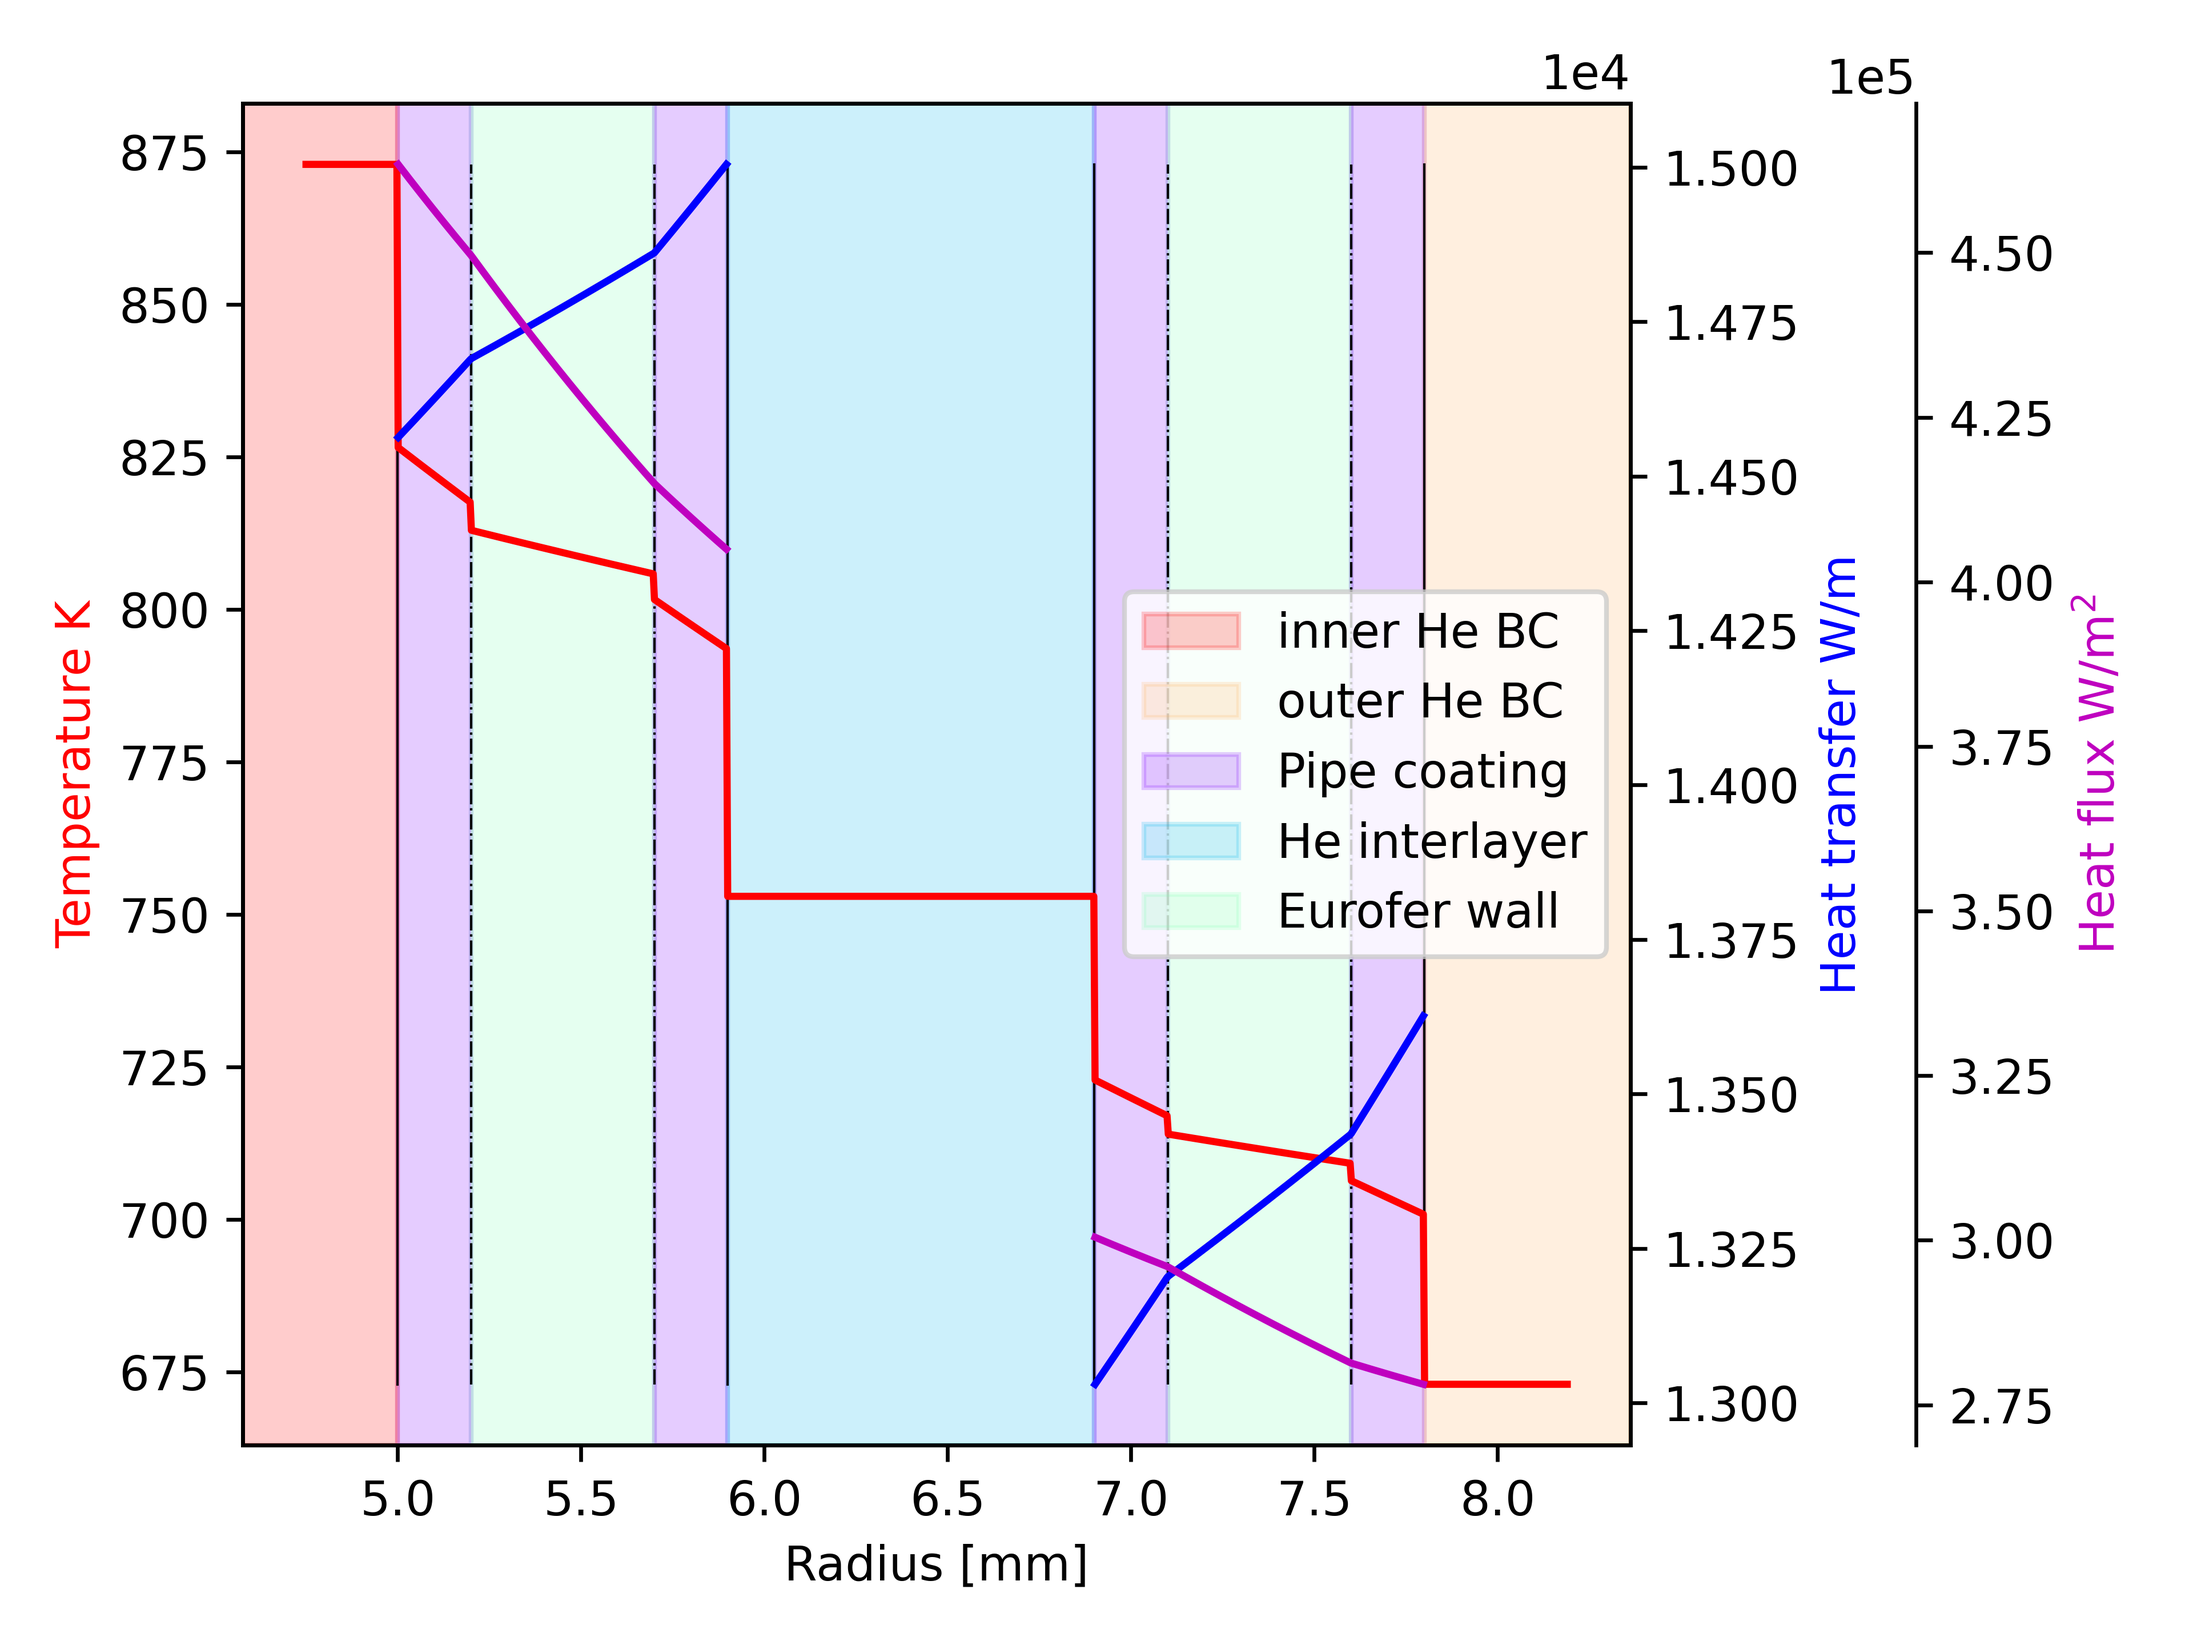
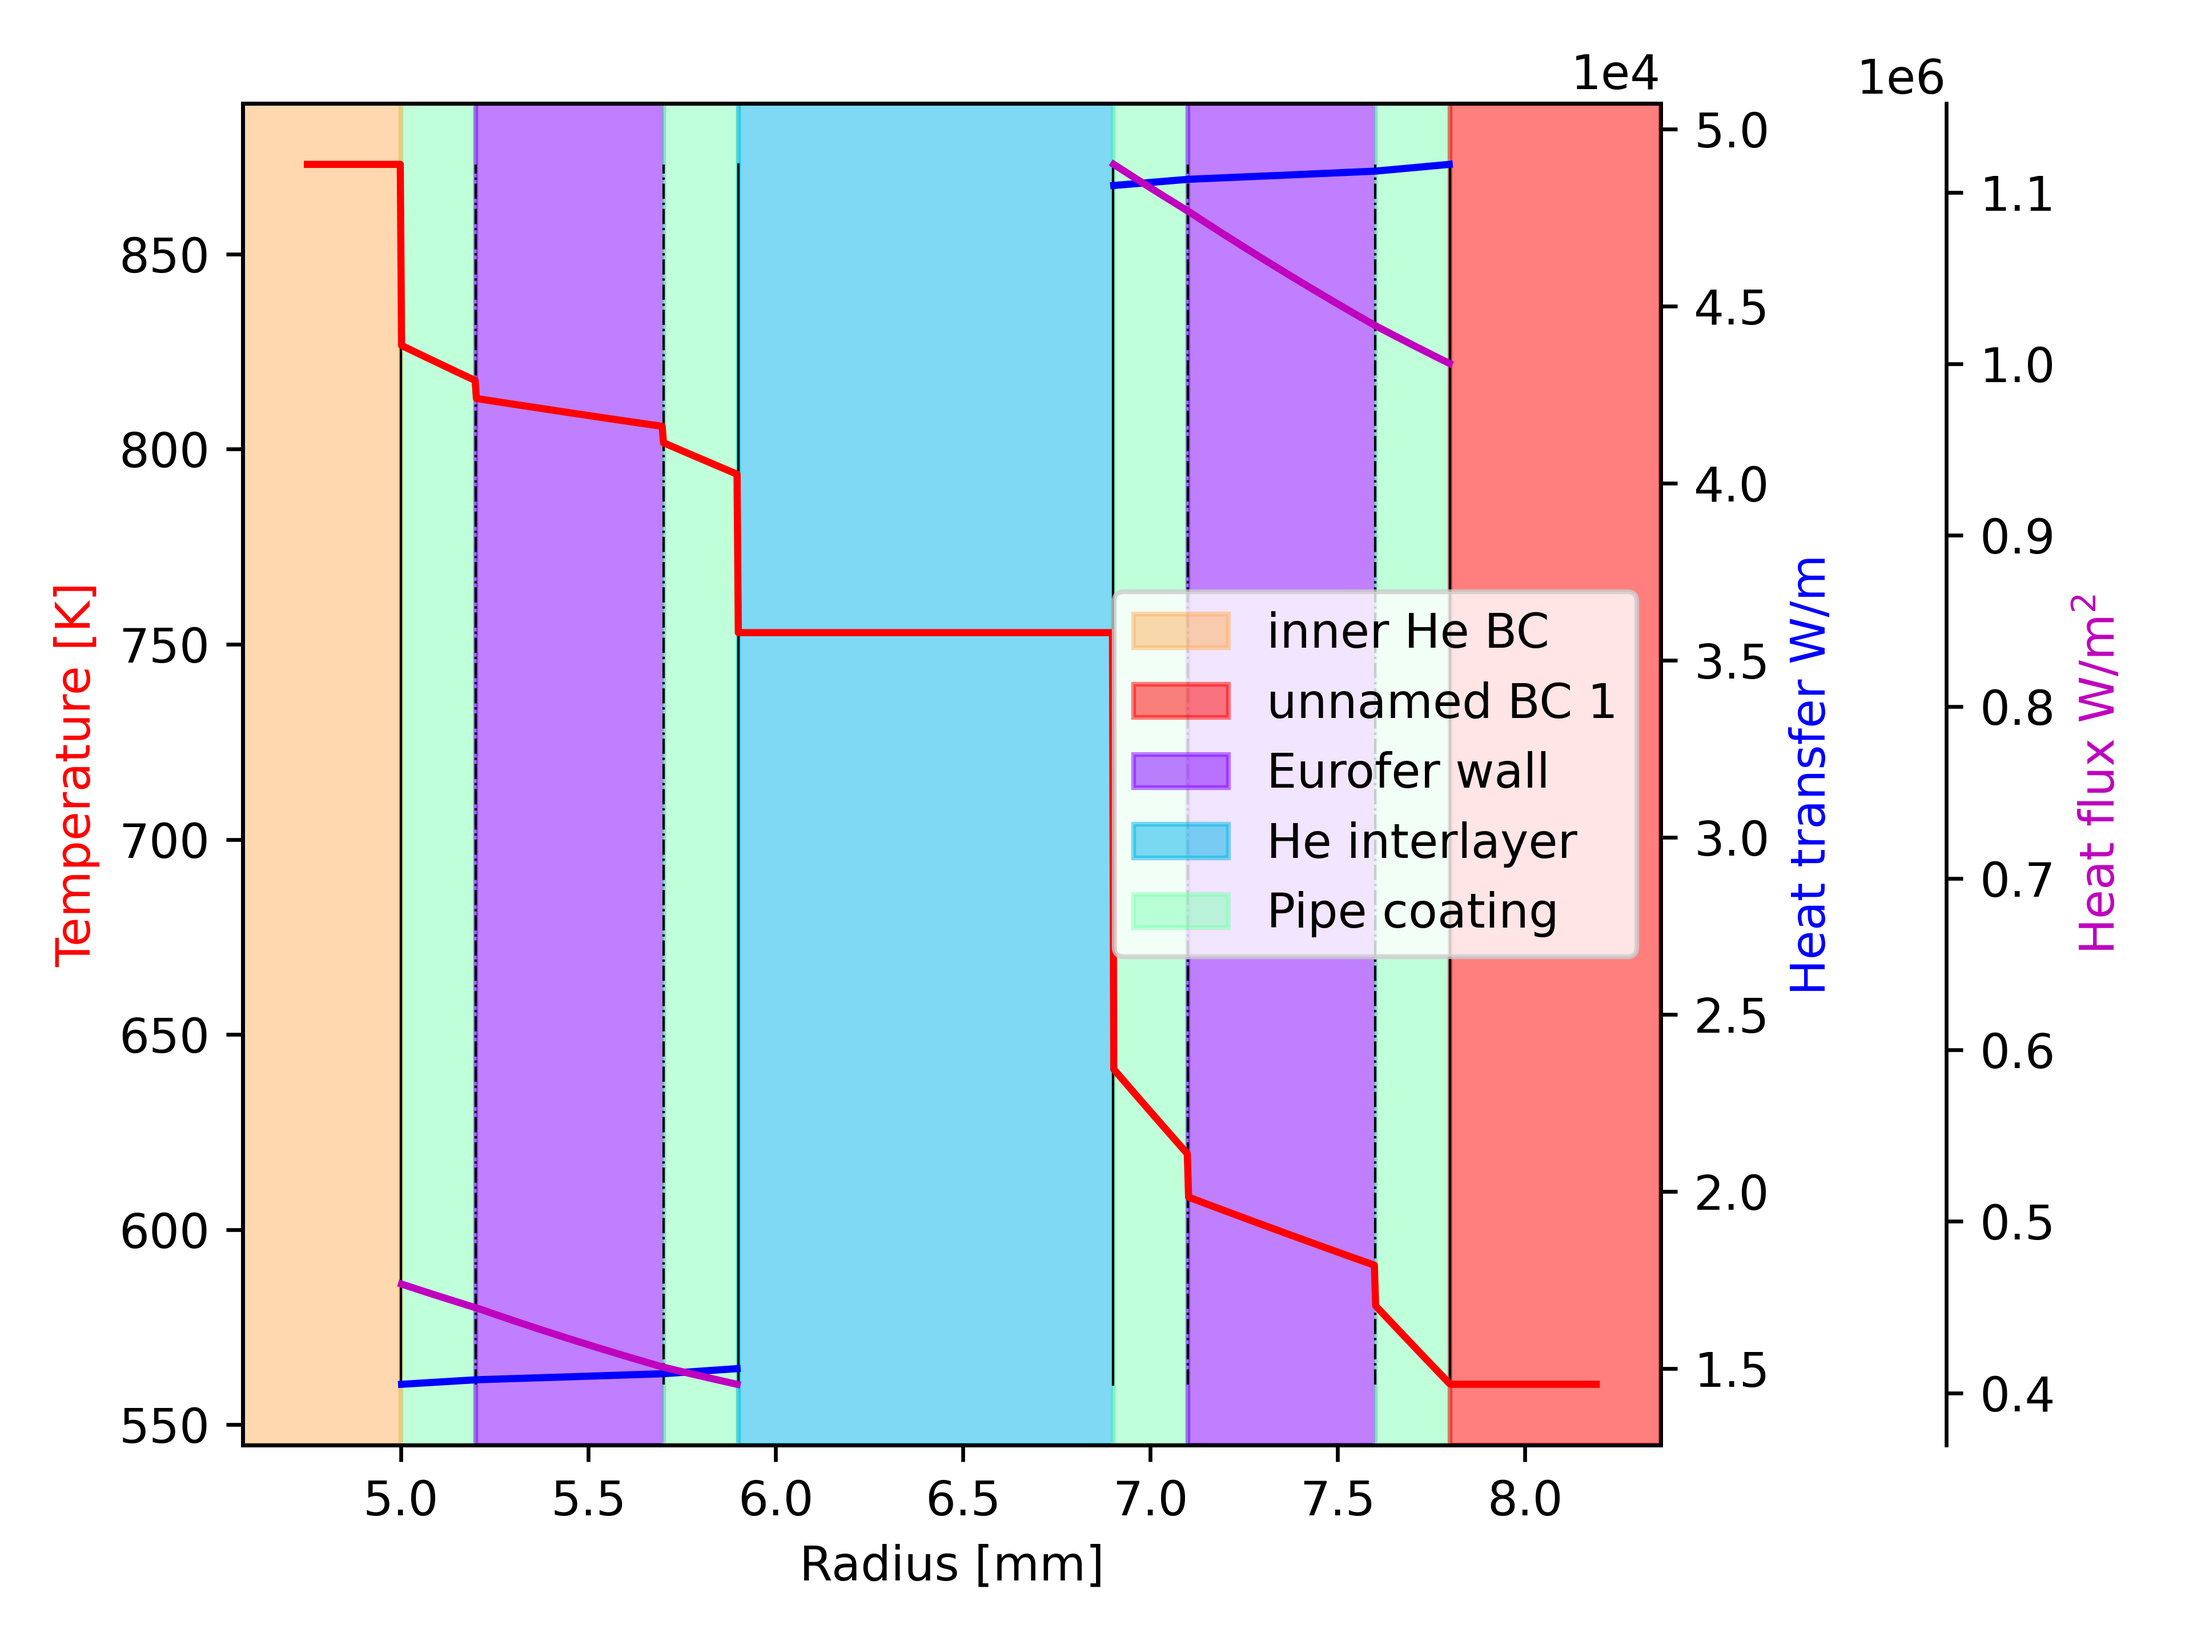
can set the alpha on plot patches

diff --git a/more_examples.py b/more_examples.py
@@ -12,19 +12,19 @@ BC3 = TP1D.boundary_condition('fluid', 'outer', T_inf=400+273, h=1e4,label='oute
 BC4 = TP1D.boundary_condition('fluid', 'inner', T_inf=400+273, h=1e4, label='Test')
 BCHFout = TP1D.boundary_condition('heat flux', 'outer',q=1e6)
 BCHFin = TP1D.boundary_condition('heat flux', 'inner',q=-1e6)
-#Example_A = TP1D.Radial1D(1,[c,a,c,b,c,a,c],BC2,BCHFout)
-#Example_B = TP1D.Radial1D(5e-3,[c,a,c],BC3,BCHFout)
-Example_C=TP1D.Radial1D(1,[c,a,c],BC3,BC4)
+Example_A = TP1D.Radial1D(5e-3,[c,a,c,b,c,a,c],BC2,BCHFout)
+Example_B = TP1D.Radial1D(5e-3,[c,a,c],BC3,BCHFout)
+Example_C=TP1D.Radial1D(5e-3,[c,a,c],BC3,BC4)
 c4_1=TP1D.solid_layer(0.5e-3,300,0,1e-5)
 c4_2=TP1D.solid_layer(3.5e-3,30,1e8,0)
 Comp_c4 = TP1D.Radial1D(1e3,[c4_1,c4_2,b,c4_1,c4_2],BC2,BC1)
 linear = TP1D.Linear1D([c,a,c],BC3,BC4, width = 2 * np.pi)
-#fig_A = Example_A.plot_T(1000,1,1,1,0,1)
-#fig_B = Example_B.plot_T(100,1,0,0,1,1)
-fig_C = Example_C.plot_T(10000,1,1,1,0,1)
+fig_A = Example_A.plot_T(1000,1,1,1,0,1)
+fig_B = Example_B.plot_T(1000,1,0,0,1,1)
+fig_C = Example_C.plot_T(1000,1,1,1,0,1)
 fig_linear = linear.plot_T(1000,1,1,1,0,1)
 C_results = Example_C.results()
 linear_results = linear.results()
-#fig_A.savefig('results\example_A.png', dpi=600 )
+fig_A.savefig('results\example_A.png', dpi=600 )
 #A_results.to_json('results\example_A.json')
 #A_results.to_csv('results\example_A.csv')

diff --git a/ThermPy1D.py b/ThermPy1D.py
@@ -374,7 +374,8 @@ class Thermal1D:
                plotq=1,
                show_bounds=1,
                Q_labels=0,
-               patches=0, 
+               patches=0,
+               set_alpha=0.5
                ):
         """
         Plots the temperature profile through the wall thickness.
@@ -551,7 +552,7 @@ class Thermal1D:
             col = {} #colours corresponding to labels
             prop = np.linspace(0,1,N) #equispaced sampling for colour spetrum
             for (key,val) in unique_labels.items():
-               col[key]=cm.rainbow(prop[i],alpha=0.2) 
+               col[key]=cm.rainbow(prop[i],alpha=set_alpha) 
                i+=1
             i=0
             ymin = ax1.get_ylim()[0]

diff --git a/setup.py b/setup.py
@@ -1,10 +1,15 @@
 # -*- coding: utf-8 -*-
 import setuptools
- 
+
+with open("README.md", "r") as fh:
+    long_description = fh.read()
+
 setuptools.setup(
     name="thermpy1d",
     version="0.01",
     description="1d thermal tool",
+    long_description=long_description,
+    long_description_content_type="text/markdown",
     author="Bruce Edwards",
     author_email="bruce.edwards@ukaea.uk",
     url="https://github.com/bruceey42/ThermPy1D",

diff --git a/README.md b/README.md
@@ -1,6 +1,8 @@
 # ThermPy1D
 Tools to provide analytical and semi-discrete solutions to radial and linear heat transfer problems with internal heat generation.
 See the Jupyter notebooks and example scripts for examples of how to generate, visualise and export results.
+Pull the latest version from https://github.com/bruceey42/ThermPy1D
+See interactive usage examples using the jupyter notebook https://github.com/bruceey42/ThermPy1D/blob/main/Examples.ipynb
 
 Please verify that this 1-D analytical tool is suitable for your purposes and exercise due dilligence to verify the results. 
 
